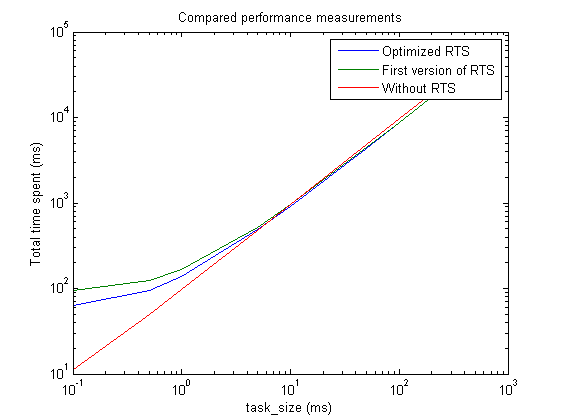
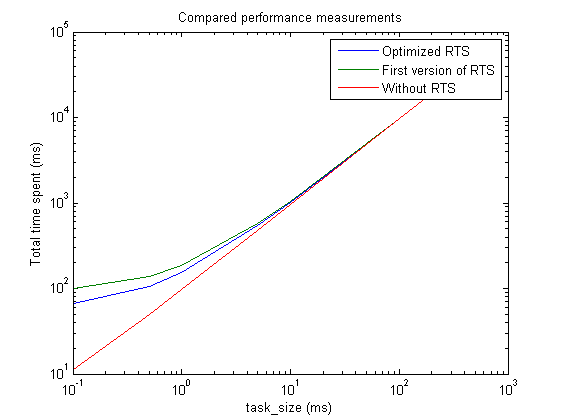
fixed experiments, rewrote some parts

diff --git a/background.tex b/background.tex
@@ -4,29 +4,27 @@ This chapter offers some summaries of and references to background material and 
 
 \section{The Lua Programming Language}
 \label{sec:lua_language}
-TODO: rewrite
 
-The Lua programming language is a dynamic, multi-paradigm scripting language developed at the \gls{puc-rio}. It is implemented and maintained by a team of only three people: professors Roberto Ierusalimschy and Waldemar Celes of \gls{puc-rio}, and researcher Luiz Henrique de Figueiredo of \gls{impa}. Lua is designed as an embeddable extension language, and considered to be one of the leading scripting languages in game development~\cite{inproceedings:the_evolution_of_lua}. A probable reason for Lua's popularity is that the designers set some goals for the language's design and implementation that have been respected from the beginning: Lua should be embeddable, simple, efficient, portable and lightweight~\cite{article:the_implementation_of_lua}.
+The Lua programming language is a dynamic, multi-paradigm scripting language developed at the \gls{puc-rio}. It is implemented and maintained by a team of only three people: professors Roberto Ierusalimschy and Waldemar Celes of \gls{puc-rio}, and researcher Luiz Henrique de Figueiredo of \gls{impa}. Lua is designed as an embeddable extension language, and considered to be one of the leading scripting languages in game development~\cite{inproceedings:the_evolution_of_lua}. A likely reason for Lua's popularity is that the designers set some goals for the language's design and implementation that have been respected from the beginning: Lua should be embeddable, simple, efficient, portable and lightweight~\cite{article:the_implementation_of_lua}.
 
-Lua has a few properties that, when combined, makes it quite unique in the programming language world. Some of these properties are:
+This section only aims to give a general impression of the Lua programming language.  Below, some of the key properties of Lua are listed, to give an overview of the programming language's capabilities.
 \begin{itemize}
-	\item Lua is dynamically typed and interpreted, similar to e.g. Python.
-	\item A single kind of data structure, which is an associative array (or simply \emph{table} in Lua).
-	\item A simple and minimalist syntax~\cite[ch. 9]{manual:lua_reference_manual}. However, this not makes Lua itself simplistic, because of the support for meta-mechanisms \cite{manual:lua_reference_manual}.
+	\item Lua is dynamically typed and interpreted, similar to languages like Python and Ruby.
+	\item Lua uses only a single kind of data structure, which is an associative array (or simply \emph{table} in Lua). Additionally, all values in Lua are \emph{first-class} values, meaning they can be passed between functions and scopes, and stored in variables~\cite[ch. 2.2]{manual:lua_reference_manual}.
+	\item Lua has simple and minimalist syntax~\cite[ch. 9]{manual:lua_reference_manual}. However, this does not necessarily make Lua itself simplistic, because of the meta-mechanisms that provide implicit support for many additional paradigms~\cite[ch. 2.8]{manual:lua_reference_manual}.
 	\item Lua code is compiled to bytecode, and run in the register-based Lua \gls{vm}. This register-based \gls{vm} is part of what makes Lua efficient~\cite{article:the_implementation_of_lua}.
-	\item The Lua \gls{vm} is written in \gls{clean-c}, and additionally offers quick and easy integration with C libraries.
-	\item The Lua core only contains a few standard libraries. The reason for this is to avoid bloating, and decreasing the cost of embedding Lua. Extensions may be added as user libraries~\cite{article:the_implementation_of_lua}.
-	\item Lua supports collaborative (non-preemptive) multithreading in the form of coroutines~\cite[ch. 2.6]{manual:lua_reference_manual}.
-	\item Included in Lua's tiny core is an incremental mark-and-sweep garbage collector, which has a few advantages (no extra overhead, simple handling of cycles) and disadvantages (possible execution pause during collection).
-	\item Lua also supports the following concepts: extensible semantics, anonymous functions, full lexical scoping and proper tail calls~\cite{inproceedings:the_evolution_of_lua}.
+	\item The Lua \gls{vm} is written in \gls{clean-c}, and additionally offers quick and easy integration with C libraries. This is primarily what makes Lua portable.
+	\item The Lua core only contains a few standard libraries. The reason for this is to avoid bloating, and decreasing the cost of embedding Lua. Extensions may be added as user libraries~\cite{article:the_implementation_of_lua}. Not including a lot of standard libraries goes a long way in keeping the memory footprint of Lua low.
+	\item Lua supports collaborative (non-preemptive) multitasking in the form of coroutines~\cite[ch. 2.6]{manual:lua_reference_manual}. While this is not considered ``real'' multitasking (everything is done sequentially even on an application-level), this concept can be used to implement multitasking behavior by explicit context switching. For example, we can design a program to continuously run a working loop while frequently checking for input, without having to worry about interrupts. 
+	\item Included in Lua's tiny core is an incremental mark-and-sweep garbage collector, which has a few advantages (no extra overhead, simple handling of cycles) and disadvantages (possible execution pause during collection) compared to other common types of garbage collectors. Automatic memory handling greatly reduces the difficulty of using the programming language for less experienced programmers.
 	\item Lua is distributed under the very liberal MIT license, stating that Lua is open source and may be used for any purpose at no cost~\cite{website:lua_license}.
 \end{itemize}
 
 While Lua is designed as an extension scripting language mainly for C applications, it is still possible to execute standalone Lua programs through the Lua interpreter~\cite[ch. 7]{manual:lua_reference_manual}.
 
-In addition to games, Lua is also used in various other types of applications and contexts. Some of these are database management, \glspl{ide}, image processing, web and browsers, multimedia, text editors and even operating systems~\cite{website:where_lua_is_used}.
+In addition to games, Lua is also used in various other types of applications and contexts. Some of these are database management, \glspl{ide}, image processing, web and browsers, multimedia, text editors and even operating systems~\cite{website:where_lua_is_used}. Among some of the more famous non-game applications we find Adobe Photoshop Lightroom, GIMP and Wireshark.
 
-Some work has also been done towards using Lua in embedded environments. This is discussed further in Sect~\ref{sec:lua_in_embedded}.
+Some work has also been done towards using Lua in embedded environments. This is discussed further in Sect.~\ref{sec:lua_in_embedded}. Additionally, Sect.~\ref{sec:lua_and_state_machines} discusses some of Lua's characteristics when considered in a state machine systems context.
 
 \section{State Machine -based Systems}
 \label{sec:state_machine_system}

diff --git a/experimental_work.tex b/experimental_work.tex
@@ -327,7 +327,7 @@ There are many ways of measuring performance in software. A typical way is to ru
 
 \subsection{Measuring Performance Overhead of the Runtime System}
 \label{sec:performance_overhead_measure}
-Running the test code described in the previous section, we use values for task\_size ranging from 10 to 500000, and values for task\_repeats ranging from 1 to 500. Additionally, results are calculated by averaging the measurements from 10 runs for each set of parameters. Table~\ref{tab:task_size_time} gives an overview of how long it takes to run a task on the microcontroller, given the task\_size parameter. We see that the time required to complete a task is almost directly proportional to the value of task\_size, and that multiplying the value of task\_size by 10 gives a fairly close approximation to the time it takes to run the task in microseconds.
+Running the test code described in the previous section, we use values for task\_size ranging from 10 to 50000, and values for task\_repeats ranging from 1 to 500. Additionally, results are calculated by averaging the measurements from 10 runs for each set of parameters. Table~\ref{tab:task_size_time} gives an overview of how long it takes to run a task on the microcontroller, given the task\_size parameter. We see that the time required to complete a task is almost directly proportional to the value of task\_size, and that multiplying the value of task\_size by 10 gives a fairly close approximation to the time it takes to run the task in microseconds.
 
 \begin{table}
 	\centering
@@ -356,9 +356,7 @@ Running the test code described in the previous section, we use values for task\
 	\label{tab:task_size_time}
 \end{table}
 
-Comparing the results from running the state machine test application and the test program, we get the results displayed in Fig.~\ref{fig:performance_overhead_rel}. We see that for smallest tasks tested, the state machine application takes almost 5 times as long to complete the task. It is no surprise that the overhead is significant for small tasks. However, it is very surprising to see that for tasks bigger than approximately 1ms, the runtime system is actually more efficient. This seems impossible...
-
-TODO: why?
+Comparing the results from running the state machine test application and the test program, we get the results displayed in Fig.~\ref{fig:performance_overhead_rel}. We see that for smallest tasks tested, the state machine application takes more than 5 times as long as the simple test program to complete the task. As the size of the task increases, this difference becomes less significant, and at 100ms it is hardly noticeable. Considering that the state machine application has some overhead associated with each run of the task, this is expected, but we should analyze the data a little further to get an impression of the impact this has on any potential real application.
 
 \begin{figure}[htp]
 	\centering
@@ -367,9 +365,9 @@ TODO: why?
 	\label{fig:performance_overhead_rel}
 \end{figure}
 
-Adjusting the results for number of repeats and task size, we get the relative amount of overhead compared to the amount of useful work done. Figure~\ref{fig:performance_overhead_abs} shows the results of these computations. We see that for the special case where we only perform the given task once, the processing overhead is significant for small tasks, with up to 5/6 of the processing time being spent on runtime system overhead. However, it is more realistic to look at the cases where a task is repeated over time. The results barely change at all when we increase the number of task repeats from 50, and while the processing overhead is still quite high for small tasks (up to 2/3), it is much smaller than when running a task once. For tasks taking around 1ms or more to complete, this processing overhead becomes insignificant.
+Adjusting the results for number of repeats and task size, we get the relative amount of overhead compared to the amount of useful work done. Figure~\ref{fig:performance_overhead_abs} shows the results of these computations. We see that for the special case where we only perform the given task once, the processing overhead is significant for small tasks, with up to 5/6 of the processing time being spent on runtime system overhead. However, it is more realistic to look at the cases where a task is repeated over time. As long as the task is repeated more than a few times, the exact number does not seem to make a real difference (the curve for \emph{task\_size = 50} almost completely fits the curve for \emph{task\_size = 100} in Fig.~\ref{fig:performance_overhead_abs}). While the processing overhead is still quite high for small tasks (up to almost 3/4) when the task is repeated over time, it is much smaller than when running a task once, which implies that there is some ``initial setup'' computation performed in the runtime system. For tasks taking around 10ms or more to complete, this processing overhead becomes insignificant.
 
-In addition to showing processing overhead, the results in Fig.~\ref{fig:performance_overhead_abs} give us an indication of how frequently the system is able to handle tasks of various sizes before these tasks start to become delayed in time. The system will for example not be able to handle scheduling tasks that take 100$\mu$s with a frequency of 1/5000, because even though there is plenty of time to complete 5000 tasks taking 100$\mu$s in one second, we also have to account for the runtime system overhead, which in this case is almost 250$\mu$s per 100$\mu$s of useful work. This means that a state machine task taking 100$\mu$s will in reality use around 350$\mu$s of processing time, meaning it can be scheduled at most with a frequency of roughly 1/2857 to avoid experiencing delay.
+In addition to showing processing overhead, the results in Fig.~\ref{fig:performance_overhead_abs} give us an indication of how frequently the system is able to handle tasks of various sizes before these tasks start to become delayed in time. The system will for example not be able to handle scheduling tasks that take 100$\mu$s with a frequency of 1/5000, because even though there is plenty of time to complete 5000 tasks taking 100$\mu$s in one second, we also have to account for the runtime system overhead, which in this case is more than 250$\mu$s per 100$\mu$s of useful work. This means that a state machine task taking 100$\mu$s will in reality use around 350$\mu$s of processing time, meaning it can be scheduled at most with a frequency of roughly 1/2850 to avoid experiencing delay. Similar considerations must be made when considering bigger tasks, at least up to 10ms.
 
 \begin{figure}[htp]
 	\centering

diff --git a/initial_analysis.tex b/initial_analysis.tex
@@ -34,11 +34,21 @@ Overall, Ruby seems like a lesser alternative for use in embedded systems, at le
 
 \subsection{Java}
 \label{sec:lua_vs_java}
-TODO
+While the previous programming languages discussed have notable similarities to Lua, Java and Lua are likely more different than alike. The following list attempts to cover the most significant differences in the context of this project.
+
+\begin{itemize}
+	\item Lua and Java use quite different syntax and coding styles. However, they are both high-level languages, and it is difficult to decide which would be easier to learn and use for less experienced programmers. This likely also depends on what the programmer is trying to accomplish. It should be noted that Java has a much larger community, so it is likely easier to find help and documentation when working with Java.
+	\item With the large Java community comes a lot of libraries and modules. While Lua offers quite a few third-party libraries for common functionality, the amount of existing Java libraries is vast. This means that in many cases, the application developer will be able to find tested and well-documented third-party libraries doing at least part of the job, greatly simplifying the development process.
+	\item Lua and Java are both very portable, and given a working interpreter/\gls{vm}, programs should run on any platform. However, while the Lua interpreter is open source and relatively simple to port~\cite{chapter:porting_lua_microcontroller}, the Java \gls{vm} is proprietary, closed source, and owned by the Oracle Corporation, meaning you're generally stuck with the platforms they want to support.
+	\item Where Lua is considered to be lightweight, Java is not. As briefly discussed in Sect.~\ref{sec:reactive_blocks}, even a specialized Java \gls{vm} will only run on systems with a lot of memory available, several times the amount required for the Lua interpreter.
+	\item Java programs are generally faster than Lua programs~\cite{website:computer_language_benchmarks_game}. This is likely because of several reasons, but the fact that Java is always compiled to bytecode is likely significant. However, considering how much faster the LuaJIT-interpreter is than the standard interpreter~\cite{website:luajit_performance}, it is likely that for a lot of programs, Lua can match the performance of Java.
+\end{itemize}
+
+Given these properties, the conclusion for the comparison between Java and Lua is similar to that of the Lua-Python comparison. If we have an abundance of memory at our disposal, and the interpreter is ported to our platform, the better choice is likely Java. However, in embedded environments, these requirements are not likely to be fulfilled.
 
 \subsection{C and C++}
 \label{sec:lua_vs_c}
-When working with embedded systems on smaller devices, this is a very natural question to ask. C is by far the most commonly used programming language for embedded systems, because of the control it gives over lower level entities like I/O devices and memory combined with good performance and (if the program is well-designed) low memory use. This makes the effort required to port a program to a new architecture relatively low, because you don't have to rewrite a whole \gls{vm}. However, coding in C is significantly more tedious, as we have to handle things memory allocation. We would like to provide application development at a ``higher level'', where these things are handled automatically, making the development process a lot quicker and easier (especially for less experienced programmers).
+When working with embedded systems on smaller devices, it is very natural to consider using C. C is by far the most commonly used programming language for embedded systems, because of the control it gives over lower level entities like I/O devices and memory, combined with good performance and (if the program is well-designed) low memory use. This makes the effort required to port a program to a new architecture relatively low, because you don't have to rewrite a whole \gls{vm}. However, coding in C is significantly more tedious, as we have to handle things memory allocation. We would like to provide application development at a ``higher level'', where these things are handled automatically, making the development process a lot quicker and easier (especially for less experienced programmers).
 
 Since Lua is written in C, a Lua state machine application will obviously be largely C-based anyway, but this will (hopefully) be hidden by the Lua implementation. The performance loss is obviously a good argument in favor of C, but with the available (and simple) C \gls{api} in Lua, some of the worse cases could potentially be written as libraries in C code, diminishing this loss.
 
@@ -88,7 +98,3 @@ A first glance at the Lua reference manual indicates that standard Lua offers ve
 
 \paragraph{Software libraries}
 One of the goals of Lua is to provide a core that is as small as possible, and thus stripped of most non-essential parts. This means that standard Lua only offers basic Lua functionality~\cite[ch. 6]{manual:lua_reference_manual}, and anything else must be added through extra libraries. While there are many different extra libraries available for Lua, these tend to have less portability than the core itself, limiting our options if we want to run Lua on anything but the most common platforms. Additionally, Lua libraries are far less in number and diversity than those of its competitors, like for example Python.
-
-\section{Lua in Embedded Systems}
-\label{ch:lua_in_embedded}
-TODO
